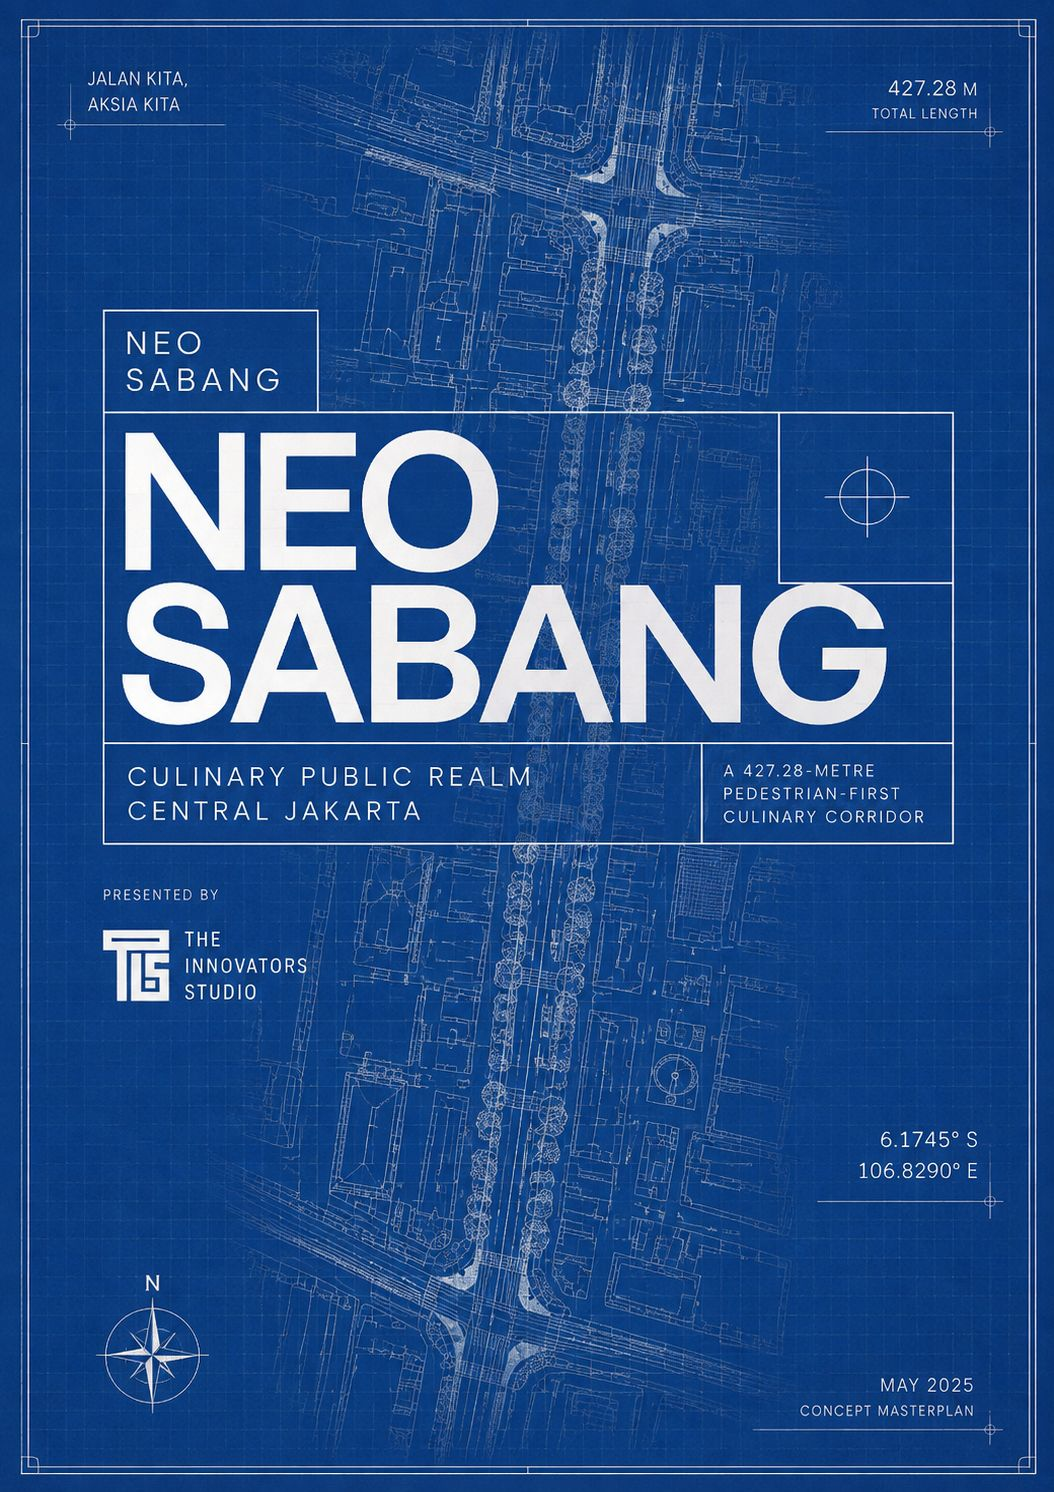
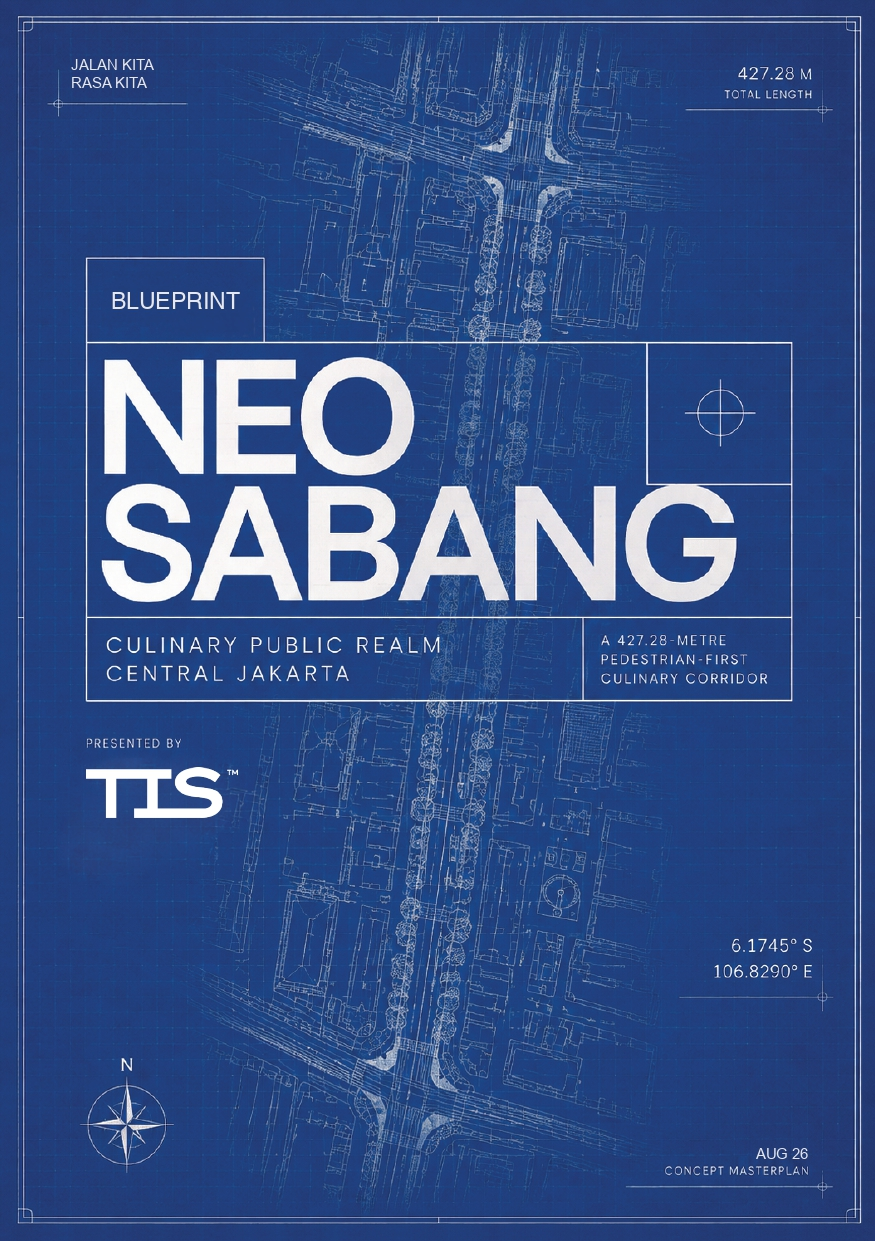
Align Neo Sabang copy with actual manuscript, refine pricing card
Rewrites hero/chapter copy to reflect the real book (The Long Indonesian
Table, Jagat Rasa, honest hypotheses) instead of generic placeholders.
Swaps the old quote section for a team-credits framing that leads into
the price ask, updates early-bird count to 81 buyers, and drops the
strikethrough original price from the pricing card. Updates cover image.

diff --git a/pages/neosabang.php b/pages/neosabang.php
@@ -49,7 +49,7 @@
         }
         .hero-video-tint {
             position: absolute; inset: 0;
-            background: linear-gradient(180deg, rgba(var(--blueprint-rgb), 0.55) 0%, rgba(var(--blueprint-rgb), 0.8) 100%);
+            background: rgba(var(--blueprint-rgb), 0.88);
             z-index: 1;
         }
         .intro-mute-btn {
@@ -81,7 +81,7 @@
         /* ===== HERO / TITLE CARD ===== */
         .hero-title-card {
             min-height: 100vh;
-            background: rgba(var(--blueprint-rgb), 0.8);
+            background: var(--blueprint);
             display: flex; align-items: center; justify-content: center;
             flex-direction: column;
             position: relative;
@@ -330,9 +330,9 @@
             margin-bottom: 12px;
         }
         .pillar-desc {
-            font-size: 14px;
+            font-size: 16px;
             color: var(--text-dim);
-            line-height: 1.7;
+            line-height: 1.6;
         }
 
         .timeline-item {
@@ -423,11 +423,11 @@
             font-weight: 800;
             color: white;
             line-height: 1;
-            margin: 8px 0 4px;
+            margin: 16px 0 4px;
         }
         .price-current span { color: var(--gold); }
         .price-note {
-            font-size: 13px;
+            font-size: 15px;
             color: var(--text-dim);
             margin-bottom: 28px;
         }
@@ -455,7 +455,7 @@
         .price-guarantee {
             display: flex; align-items: center; justify-content: center; gap: 8px;
             margin-top: 16px;
-            font-size: 12px;
+            font-size: 13px;
             color: var(--text-dim);
         }
 
@@ -467,7 +467,7 @@
         .feature-list li {
             display: flex; align-items: flex-start; gap: 12px;
             padding: 10px 0;
-            font-size: 14px;
+            font-size: 16px;
             color: var(--text);
             border-bottom: 1px solid rgba(255,255,255,0.04);
         }
@@ -578,10 +578,10 @@
 
     <!-- ===== INTRO / SUBTITLE ===== -->
     <section style="padding: 100px 24px 60px;">
-        <div style="max-width: 700px; margin: 0 auto; text-align: center;">
+        <div style="max-width: 800px; margin: 0 auto; text-align: center;">
             <div class="reveal-up section-label">Reimagining Indonesia's Culinary Street</div>
-            <p class="reveal-up d1" style="color: var(--text-dim); margin-top: 24px; line-height: 1.9; font-size: 17px; max-width: 600px; margin-left: auto; margin-right: auto;">
-                We had a crazy idea: what if one street in Jakarta could change the way the world sees Indonesian food? So we made the blueprint. And now you can have it.
+            <p class="reveal-up d1 big-quote" style="margin-top: 24px; font-size: clamp(22px, 3.5vw, 38px);">
+                One street. All of Indonesia. <em>One long table.</em>
             </p>
         </div>
     </section>
@@ -590,16 +590,16 @@
         <div class="line"></div><div class="diamond"></div><div class="line"></div>
     </div>
 
-    <!-- ===== THE BIG IDEA ===== -->
+    <!-- ===== THE TEAM ===== -->
     <section style="padding: 0 24px 80px;">
         <div style="max-width: 800px; margin: 0 auto;">
             <div class="reveal-up big-quote">
-                "<em>One Street.</em><br>
-                <em>Thousands of Stories.</em><br>
-                <em>One crazy idea.</em>"
+                "<em>IT. Business. Design.</em><br>
+                <em>Accounting. Brand CEOs. Politics.</em><br>
+                <em>One team, one blueprint.</em>"
             </div>
-            <p class="reveal-up d1" style="text-align: center; color: var(--text-dim); margin-top: 32px; line-height: 1.8; font-size: 15px; max-width: 600px; margin-left: auto; margin-right: auto;">
-                Indonesia doesn't need another food court. What it needs is a culinary destination that actually tells the story of its food, its people, and its culture. That's exactly what Neo Sabang is about. And this blueprint is how we plan to build it.
+            <p class="reveal-up d1 section-heading" style="text-align: center; margin-top: 32px; font-size: clamp(20px, 3vw, 32px); max-width: 700px; margin-left: auto; margin-right: auto;">
+                Prepare Rp30.000. This wasn't built by one person guessing.
             </p>
         </div>
     </section>
@@ -619,11 +619,11 @@
             <div class="pillar-grid" style="display: grid; grid-template-columns: repeat(auto-fit, minmax(280px, 1fr)); gap: 20px;">
                 <?php
                 $chapters = [
-                    ['num' => 'I', 'title' => 'The Big Idea', 'desc' => 'Why this is more than just another revitalisasi. This is a cultural movement, built from food, stories, and a vision that Indonesia deserves.'],
-                    ['num' => 'II', 'title' => 'The Framework', 'desc' => 'Five pillars that bring together culinary, experience, community, innovation, and sustainability into one living ecosystem.'],
-                    ['num' => 'III', 'title' => 'The Masterplan', 'desc' => 'Zonasi, desain ruang publik, visual blueprint. The kind of presentation you can walk into any room with and people will listen.'],
-                    ['num' => 'IV', 'title' => 'The Business Model', 'desc' => 'The numbers behind the vision. Revenue strategy, economic impact, and why this is something worth investing in.'],
-                    ['num' => 'V', 'title' => 'The Roadmap', 'desc' => 'From pilot to full scale. Every step laid out. Practical, measurable, and designed to actually get built.'],
+                    ['num' => 'I', 'title' => 'The Problem', 'desc' => 'Three layers keep Sabang from working: space, operations, experience.'],
+                    ['num' => 'II', 'title' => 'The Long Indonesian Table', 'desc' => 'One street. All of Indonesia. Sit down anywhere.'],
+                    ['num' => 'III', 'title' => 'Rhythm & Pause', 'desc' => 'Every step, every pause, designed on purpose.'],
+                    ['num' => 'IV', 'title' => 'Jagat Rasa', 'desc' => 'An annual culinary competition that keeps it alive, year after year.'],
+                    ['num' => 'V', 'title' => 'The Business Case', 'desc' => 'The math behind Neo Sabang, done honestly.'],
                 ];
                 foreach($chapters as $i => $c): ?>
                 <div class="reveal-up d<?= $i+1 ?> pillar-card">
@@ -640,27 +640,23 @@
         <div class="line"></div><div class="diamond"></div><div class="line"></div>
     </div>
 
-    <!-- ===== WHO IS THIS FOR ===== -->
+    <!-- ===== WHY YOU SHOULD BUY ===== -->
     <section style="padding: 80px 24px;">
-        <div style="max-width: 700px; margin: 0 auto; text-align: center;">
+        <div style="max-width: 750px; margin: 0 auto; text-align: center;">
             <div class="reveal-up">
-                <div class="section-label">Built For Builders</div>
-                <h2 class="section-heading" style="margin-bottom: 40px;">This is for you if you...</h2>
+                <div class="section-label">Why This Blueprint</div>
+                <h2 class="section-heading" style="margin-bottom: 56px;">Why you should buy it.</h2>
             </div>
 
             <?php
-            $personas = [
-                ['icon' => '<svg width="24" height="24" fill="none" stroke="currentColor" viewBox="0 0 24 24"><path stroke-linecap="round" stroke-linejoin="round" stroke-width="1.5" d="M12 6.253v13m0-13C10.832 5.477 9.246 5 7.5 5S4.168 5.477 3 6.253v13C4.168 18.477 5.754 18 7.5 18s3.332.477 4.5 1.253m0-13C13.168 5.477 14.754 5 16.5 5c1.747 0 3.332.477 4.5 1.253v13C19.832 18.477 18.247 18 16.5 18c-1.746 0-3.332.477-4.5 1.253"/></svg>', 'text' => 'Want to understand how a culinary destination gets designed from the ground up'],
-                ['icon' => '<svg width="24" height="24" fill="none" stroke="currentColor" viewBox="0 0 24 24"><path stroke-linecap="round" stroke-linejoin="round" stroke-width="1.5" d="M13 10V3L4 14h7v7l9-11h-7z"/></svg>', 'text' => 'Are putting together a proposal for urban revitalization or a food district'],
-                ['icon' => '<svg width="24" height="24" fill="none" stroke="currentColor" viewBox="0 0 24 24"><path stroke-linecap="round" stroke-linejoin="round" stroke-width="1.5" d="M9.663 17h4.673M12 3v1m6.364 1.636l-.707.707M21 12h-1M4 12H3m3.343-5.657l-.707-.707m2.828 9.9a5 5 0 117.072 0l-.548.547A3.374 3.374 0 0014 18.469V19a2 2 0 11-4 0v-.531c0-.895-.356-1.754-.988-2.386l-.548-.547z"/></svg>', 'text' => 'Are genuinely obsessed with where food, culture, and urban design meet'],
-                ['icon' => '<svg width="24" height="24" fill="none" stroke="currentColor" viewBox="0 0 24 24"><path stroke-linecap="round" stroke-linejoin="round" stroke-width="1.5" d="M17 20h5v-2a3 3 0 00-5.356-1.857M17 20H7m10 0v-2c0-.656-.126-1.283-.356-1.857M7 20H2v-2a3 3 0 015.356-1.857M7 20v-2c0-.656.126-1.283.356-1.857m0 0a5.002 5.002 0 019.288 0M15 7a3 3 0 11-6 0 3 3 0 016 0zm6 3a2 2 0 11-4 0 2 2 0 014 0zM7 10a2 2 0 11-4 0 2 2 0 014 0z"/></svg>', 'text' => 'Work in F&B and want to see the bigger picture of where this industry is heading'],
+            $reasons = [
+                'Not a finished pitch deck. The real thinking, hypotheses and all.',
+                'Real research, real numbers. Not just theory.',
+                'First 81 buyers only. Then it\'s gone.',
             ];
-            foreach($personas as $i => $p): ?>
-            <div class="reveal-up d<?= $i+1 ?> timeline-item" style="text-align: left;">
-                <div style="flex-shrink: 0; color: var(--gold); margin-top: 2px;"><?= $p['icon'] ?></div>
-                <div class="timeline-content">
-                    <p style="color: var(--text); font-size: 15px; font-weight: 400;"><?= $p['text'] ?></p>
-                </div>
+            foreach($reasons as $i => $r): ?>
+            <div class="reveal-up d<?= $i+1 ?> big-quote" style="font-size: clamp(20px, 3vw, 30px); margin-bottom: 28px;">
+                <?= $r ?>
             </div>
             <?php endforeach; ?>
         </div>
@@ -688,18 +684,18 @@
                 </div>
             </div>
 
-            <p class="reveal-up d2" style="color: var(--text-dim); margin-top: 32px; font-size: 14px; line-height: 1.8;">
-                This blueprint was built from real research, international benchmarks, and hands-on experience designing creative projects across Indonesia. It's not a collection of theories. It's a document that's ready to be executed.
+            <p class="reveal-up d2" style="color: var(--text-dim); margin-top: 32px; font-size: 17px; line-height: 1.7;">
+                Built from real research. Ready to execute.
             </p>
 
             <div class="reveal-up d3" style="margin-top: 40px; display: flex; justify-content: center; gap: 40px; flex-wrap: wrap;">
                 <div style="text-align: center;">
-                    <div style="font-family: 'Cinzel', serif; font-size: 36px; font-weight: 800; color: var(--gold);">50+</div>
+                    <div style="font-family: 'Cinzel', serif; font-size: 36px; font-weight: 800; color: var(--gold);">45+</div>
                     <div style="font-size: 12px; color: var(--text-dim); letter-spacing: 0.1em; text-transform: uppercase; margin-top: 4px;">Pages</div>
                 </div>
                 <div style="text-align: center;">
-                    <div style="font-family: 'Cinzel', serif; font-size: 36px; font-weight: 800; color: var(--gold);">5</div>
-                    <div style="font-size: 12px; color: var(--text-dim); letter-spacing: 0.1em; text-transform: uppercase; margin-top: 4px;">Strategic Pillars</div>
+                    <div style="font-family: 'Cinzel', serif; font-size: 36px; font-weight: 800; color: var(--gold);">13</div>
+                    <div style="font-size: 12px; color: var(--text-dim); letter-spacing: 0.1em; text-transform: uppercase; margin-top: 4px;">Chapters</div>
                 </div>
                 <div style="text-align: center;">
                     <div style="font-family: 'Cinzel', serif; font-size: 36px; font-weight: 800; color: var(--gold);">1</div>
@@ -733,29 +729,28 @@
                     <ul class="feature-list">
                         <li>
                             <div class="check"><svg fill="none" stroke="currentColor" viewBox="0 0 24 24"><path stroke-linecap="round" stroke-linejoin="round" stroke-width="2.5" d="M5 13l4 4L19 7"/></svg></div>
-                            Full vision, concept & strategic framework
+                            The full vision: concept, framework & story
                         </li>
                         <li>
                             <div class="check"><svg fill="none" stroke="currentColor" viewBox="0 0 24 24"><path stroke-linecap="round" stroke-linejoin="round" stroke-width="2.5" d="M5 13l4 4L19 7"/></svg></div>
-                            Presentation-ready visual masterplan
+                            A presentation-ready visual masterplan
                         </li>
                         <li>
                             <div class="check"><svg fill="none" stroke="currentColor" viewBox="0 0 24 24"><path stroke-linecap="round" stroke-linejoin="round" stroke-width="2.5" d="M5 13l4 4L19 7"/></svg></div>
-                            Business model & economic impact analysis
+                            The business case, numbers and all
                         </li>
                         <li>
                             <div class="check"><svg fill="none" stroke="currentColor" viewBox="0 0 24 24"><path stroke-linecap="round" stroke-linejoin="round" stroke-width="2.5" d="M5 13l4 4L19 7"/></svg></div>
-                            Step-by-step execution roadmap
+                            Honest hypotheses & open data, laid bare
                         </li>
                         <li>
                             <div class="check"><svg fill="none" stroke="currentColor" viewBox="0 0 24 24"><path stroke-linecap="round" stroke-linejoin="round" stroke-width="2.5" d="M5 13l4 4L19 7"/></svg></div>
-                            50+ pages of high-quality research & design
+                            45+ pages of real research and design
                         </li>
                     </ul>
 
-                    <div class="price-original">Rp 100.000</div>
                     <div class="price-current"><span>Rp</span> 30.000</div>
-                    <div class="price-note">Early bird price, limited to first 100 buyers</div>
+                    <div class="price-note">Early bird price, limited to first 81 buyers</div>
 
                     <a href="https://theinnovatorsstudio.myr.id/pl/neo-sabang" id="checkoutBtn" class="cta-btn" target="_blank">
                         <svg width="20" height="20" fill="none" stroke="currentColor" viewBox="0 0 24 24"><path stroke-linecap="round" stroke-linejoin="round" stroke-width="2" d="M3 3h2l.4 2M7 13h10l4-8H5.4M7 13L5.4 5M7 13l-2.293 2.293c-.63.63-.184 1.707.707 1.707H17m0 0a2 2 0 100 4 2 2 0 000-4zm-8 2a2 2 0 100 4 2 2 0 000-4z"/></svg>
